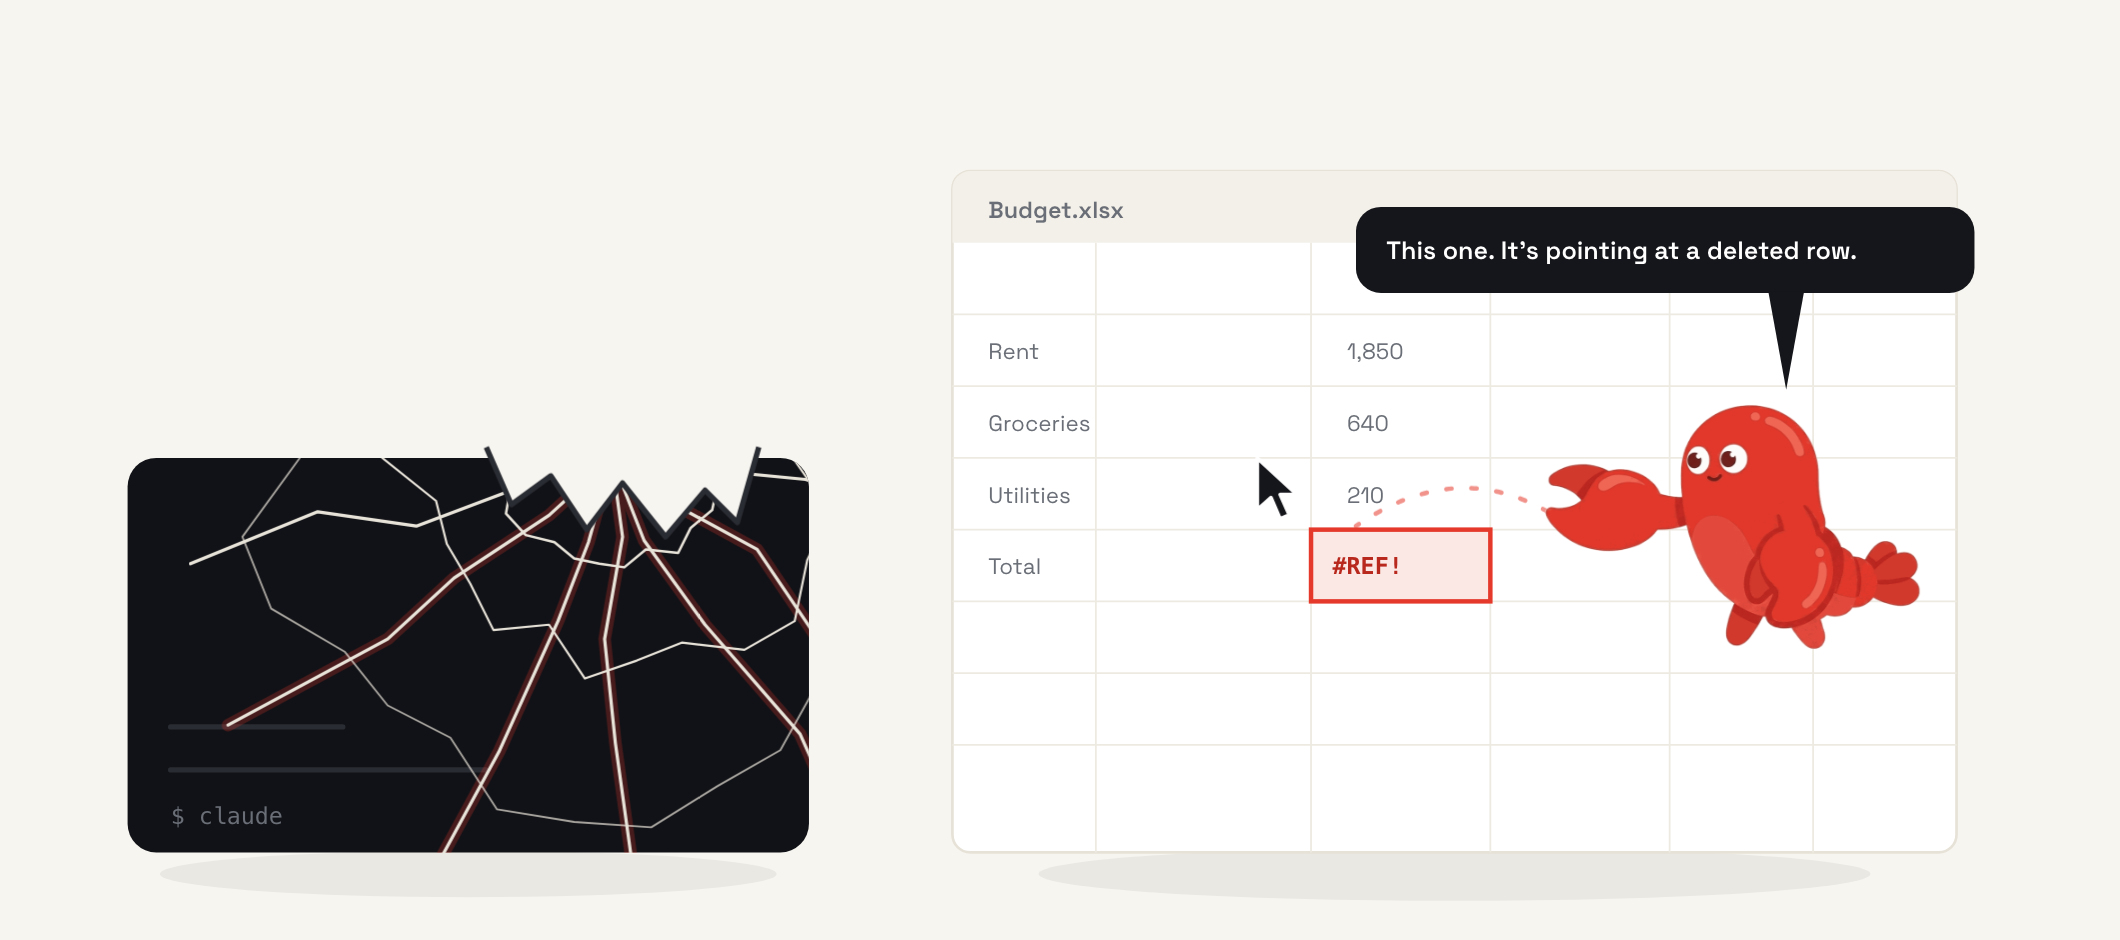
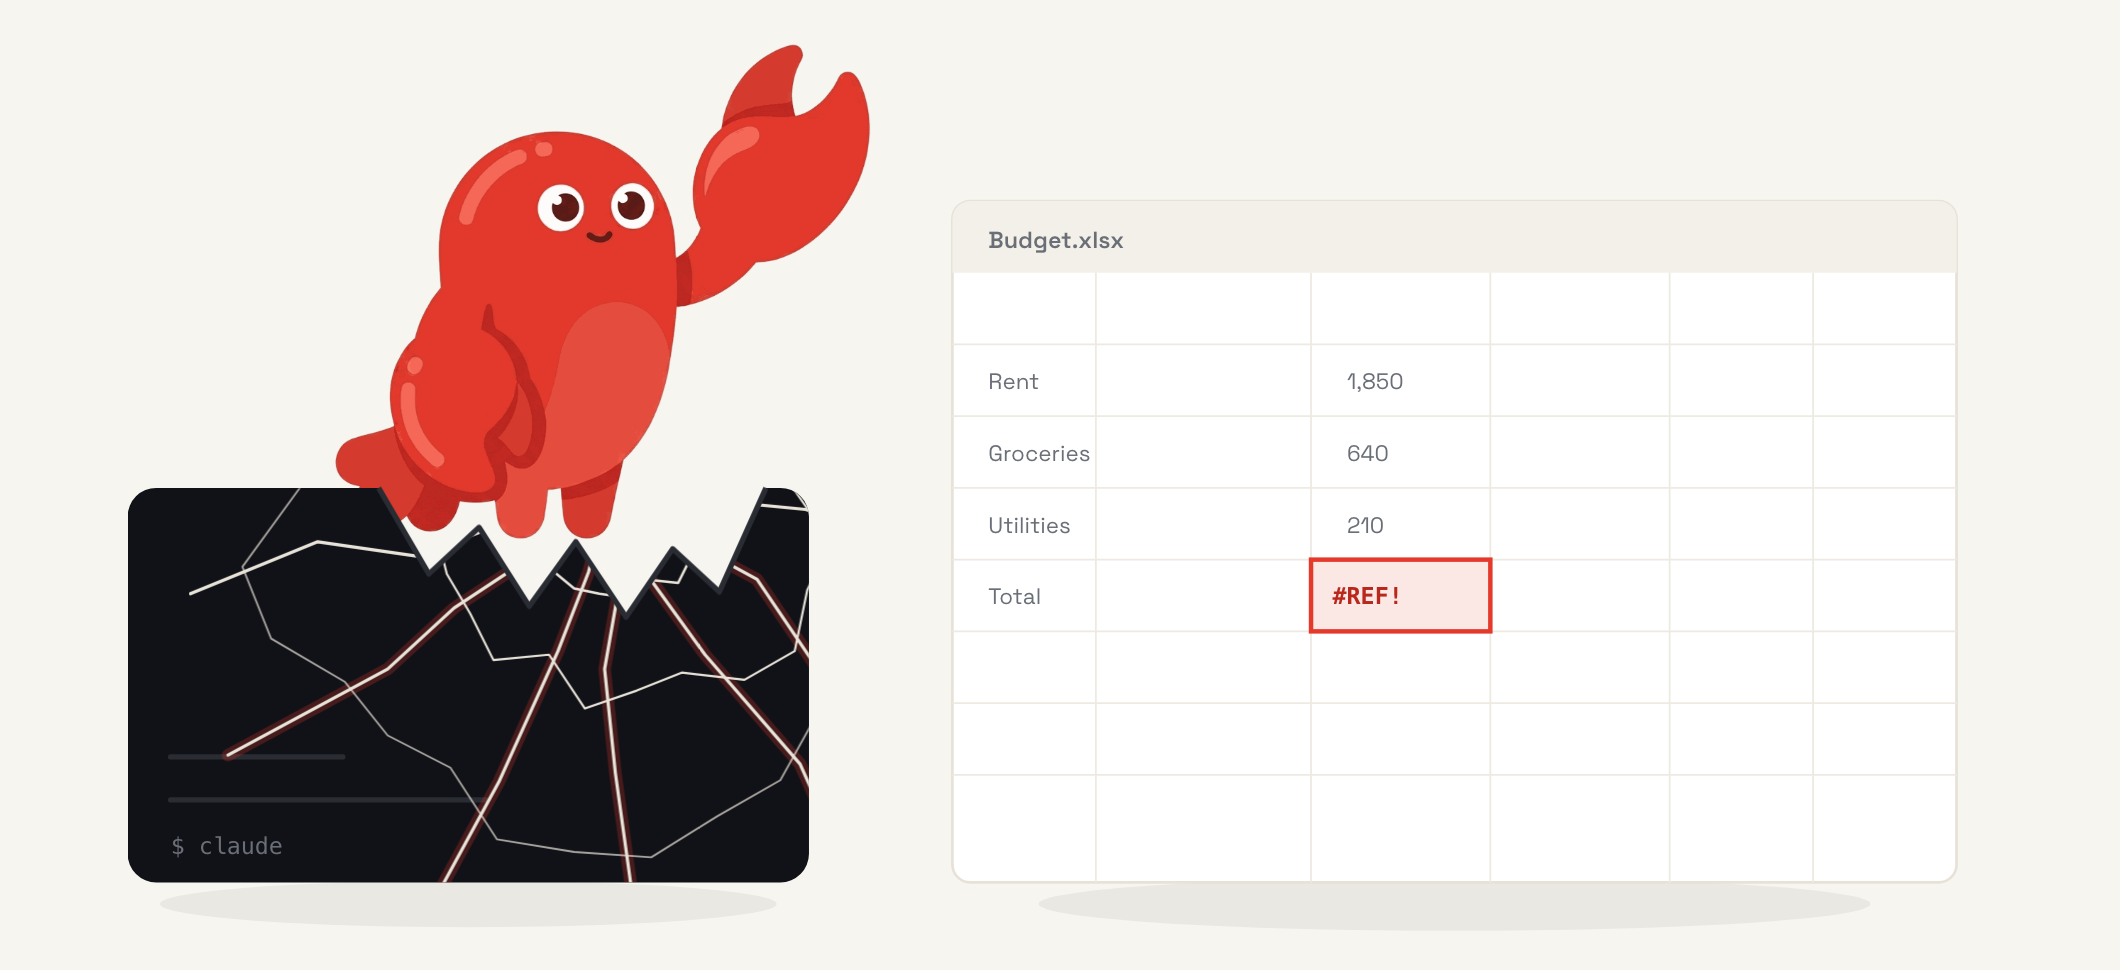
Hero: lobster climbs out through a real hole in the terminal; README shows the burst frame
The rising lobster is now the full-body mascot drawn behind the
terminal's front face, which has the jagged opening cut out of it, so
the broken edge genuinely occludes the body on the way out and you see
the desk through the hole once it's gone. Cracks are clipped to the
intact glass. The README hero is the mid-burst frame.

diff --git a/site/index.html b/site/index.html
@@ -61,15 +61,17 @@
   .cracks path:nth-child(n+8){ animation-delay: 1.5s; animation-duration: 0.7s; }
   .cracks path:nth-child(10){ animation-delay: 1.62s; }
   @keyframes drawCrack{ to{ stroke-dashoffset: 0; } }
-  .hole, .hole-rim{ opacity:0; animation: fadeIn 0.08s linear forwards; animation-delay: 1.95s; }
+  .hole-cover{ opacity:1; animation: fadeOut 0.08s linear forwards; animation-delay: 1.95s; }
+  .hole-rim{ opacity:0; animation: fadeIn 0.08s linear forwards; animation-delay: 1.95s; }
+  @keyframes fadeOut{ to{ opacity:0; } }
   .shard{ opacity:0; transform-origin:center; animation: shardFly 0.9s cubic-bezier(.2,.7,.3,1) forwards; animation-delay: 1.95s; }
   .shard.s1{ --dx:-60px; --dy:-130px; --r:-140deg; --lx:150px; --ly:194px; }
   .shard.s2{ --dx:50px; --dy:-160px; --r:200deg; --lx:120px; --ly:190px; }
   .shard.s3{ --dx:-20px; --dy:-100px; --r:-90deg; --lx:225px; --ly:194px; }
   .shard.s4{ --dx:100px; --dy:-110px; --r:120deg; --lx:100px; --ly:198px; }
   @keyframes shardFly{ 0%{ opacity:1; transform: translate(0,0) rotate(0); } 45%{ opacity:1; transform: translate(var(--dx),var(--dy)) rotate(var(--r)); } 100%{ opacity:0; transform: translate(var(--lx),var(--ly)) rotate(var(--r)); } }
-  .peek{ opacity:0; transform-origin: 350px 300px; animation: peekUp 0.8s cubic-bezier(.2,.8,.2,1) forwards, peekHop 0.45s cubic-bezier(.4,0,.8,.6) forwards; animation-delay: 1.9s, 3.1s; }
-  @keyframes peekUp{ from{ opacity:0; transform: translateY(70px) scale(0.94); } to{ opacity:1; transform:none; } }
+  .peek{ opacity:0; transform-origin: 325px 330px; animation: peekUp 0.8s cubic-bezier(.2,.9,.2,1.15) forwards, peekHop 0.45s cubic-bezier(.4,0,.8,.6) forwards; animation-delay: 1.95s, 3.1s; }
+  @keyframes peekUp{ from{ opacity:1; transform: translateY(210px); } to{ opacity:1; transform:none; } }
   @keyframes peekHop{ to{ opacity:0; transform: translate(120px,-140px) scale(0.9); } }
   .land{ opacity:0; transform-origin: 940px 380px; animation: landIn 0.7s cubic-bezier(.34,1.4,.64,1) forwards; animation-delay: 3.4s; }
   @keyframes landIn{ from{ opacity:0; transform: translate(-220px,-150px) scale(0.86); } 60%{ opacity:1; } to{ opacity:1; transform:none; } }
@@ -85,8 +87,8 @@
   .beats li{ display:flex; align-items:center; gap:10px; font-size:14px; color:var(--muted); }
   .beats li b{ display:inline-grid; place-items:center; width:22px; height:22px; border-radius:50%; background:var(--red-soft); color:var(--red-deep); font-size:12px; }
   @media (prefers-reduced-motion: reduce){
-    .eyes, .eyes .lid, .cracks path, .cracks-glow path, .hole, .hole-rim, .shard, .peek, .land, .cursor-arrow, .hero-trail, .hero-bubble, .term-cursor, .clawdy-bubble, .you-bubble .bar{ animation: none !important; }
-    .eyes{ opacity:0; } .cracks path, .cracks-glow path{ stroke-dashoffset:0; } .hole, .hole-rim{ opacity:1; } .shard{ opacity:0; } .peek{ opacity:0; } .land, .cursor-arrow, .hero-bubble{ opacity:1; } .hero-trail{ opacity:0.55; }
+    .eyes, .eyes .lid, .cracks path, .cracks-glow path, .hole-cover, .hole-rim, .shard, .peek, .land, .cursor-arrow, .hero-trail, .hero-bubble, .term-cursor, .clawdy-bubble, .you-bubble .bar{ animation: none !important; }
+    .eyes{ opacity:0; } .cracks path, .cracks-glow path{ stroke-dashoffset:0; } .hole-cover{ opacity:0; } .hole-rim{ opacity:1; } .shard{ opacity:0; } .peek{ opacity:0; } .land, .cursor-arrow, .hero-bubble{ opacity:1; } .hero-trail{ opacity:0.55; }
   }
 
   /* ---------- VALUE PROPS ---------- */
@@ -170,9 +172,13 @@
           <ellipse cx="250" cy="532" rx="172" ry="13" fill="#000" opacity="0.05"/>
           <ellipse cx="800" cy="532" rx="232" ry="15" fill="#000" opacity="0.05"/>
 
-          <!-- beat 1: the terminal, with the lobster's eyes inside -->
+          <!-- beat 1+2: the terminal. Back face → the lobster rises INSIDE it → the FRONT face with the
+               jagged hole cut out (evenodd), so the body is occluded by the broken edge as it climbs out. -->
+          <clipPath id="peek-clip"><rect x="0" y="-120" width="1160" height="420"/><rect x="60" y="300" width="380" height="220"/></clipPath>
+          <g clip-path="url(#peek-clip)"><g class="peek"><image href="mascot-point-right.png" x="175" y="52" width="300" height="277"/></g></g>
           <g transform="translate(60,300)">
-            <rect width="380" height="220" rx="16" fill="#111217"/>
+            <path class="term-front" fill-rule="evenodd" fill="#111217"
+                  d="M16,0 H364 A16,16 0 0 1 380,16 V204 A16,16 0 0 1 364,220 H16 A16,16 0 0 1 0,204 V16 A16,16 0 0 1 16,0 Z M140,0 L168,48 L196,22 L224,66 L250,30 L278,72 L304,34 L330,58 L356,0 Z"/>
             <g class="eyes">
               <circle cx="176" cy="96" r="14" fill="#FFFFFF"/><circle cx="216" cy="96" r="14" fill="#FFFFFF"/>
               <circle cx="180" cy="98" r="6" fill="#15161B"/><circle cx="220" cy="98" r="6" fill="#15161B"/>
@@ -182,7 +188,7 @@
             <text x="24" y="204" font-family="ui-monospace,Menlo,monospace" font-size="13" fill="#6A6E76">$ claude</text>
             <rect class="term-cursor" x="92" y="192" width="9" height="15" fill="#E5392C"/>
             <!-- shatter: a spiderweb of cracks (radial rays + concentric rings) around the burst point on the top edge, clipped to the window -->
-            <clipPath id="term-clip"><rect width="380" height="220" rx="16"/></clipPath>
+            <clipPath id="term-clip"><path clip-rule="evenodd" d="M16,0 H364 A16,16 0 0 1 380,16 V204 A16,16 0 0 1 364,220 H16 A16,16 0 0 1 0,204 V16 A16,16 0 0 1 16,0 Z M140,0 L168,48 L196,22 L224,66 L250,30 L278,72 L304,34 L330,58 L356,0 Z"/></clipPath>
             <g clip-path="url(#term-clip)">
               <g class="cracks-glow" fill="none" stroke="#E5392C" stroke-width="7" stroke-linecap="round" stroke-linejoin="round" opacity="0.25">
                 <path d="M270,0 L305,26 L351,51 L393,113 L469,135"/><path d="M270,0 L288,46 L322,93 L375,154 L413,239"/><path d="M270,0 L276,44 L266,101 L272,159 L287,267"/><path d="M270,0 L257,47 L240,91 L207,164 L171,230"/><path d="M270,0 L235,32 L182,67 L145,101 L56,149"/>
@@ -194,18 +200,16 @@
                 <path d="M443,0 L445,37 L439,75 L437,122 L384,127 L364,163 L329,183 L292,206 L249,203 L206,196 L180,156 L145,138 L121,108 L80,84 L64,44 L96,0" stroke-width="1" opacity="0.7"/>
               </g>
             </g>
-            <path class="hole" d="M200,-6 L214,26 L236,10 L256,40 L276,14 L300,44 L322,18 L340,36 L352,-6 Z" fill="#F7F5F0"/>
-            <path class="hole-rim" d="M200,-6 L214,26 L236,10 L256,40 L276,14 L300,44 L322,18 L340,36 L352,-6" fill="none" stroke="#2A2C33" stroke-width="3" stroke-linejoin="round"/>
+            <path class="hole-cover" d="M140,0 L168,48 L196,22 L224,66 L250,30 L278,72 L304,34 L330,58 L356,0 Z" fill="#111217"/>
+            <path class="hole-rim" d="M140,0 L168,48 L196,22 L224,66 L250,30 L278,72 L304,34 L330,58 L356,0" fill="none" stroke="#2A2C33" stroke-width="3" stroke-linejoin="round"/>
           </g>
-          <!-- shards fly out of the hole, then lie on the desk as debris -->
+          <!-- shards fly out of the hole -->
           <g class="shards" fill="#111217">
             <polygon class="shard s1" points="296,300 316,296 336,300 320,326"/>
             <polygon class="shard s2" points="360,298 382,300 372,330 356,318"/>
             <polygon class="shard s3" points="262,302 284,296 290,320 270,326"/>
             <polygon class="shard s4" points="396,300 414,298 420,322 402,318"/>
           </g>
-          <!-- beat 2: cracks out (the image's cut edge sits on the terminal's top edge, y=300) -->
-          <g class="peek"><image href="mascot-peek.png" x="150" y="40" width="409" height="390"/></g>
 
           <!-- the everyday app: a spreadsheet -->
           <g transform="translate(520,140)">

diff --git a/README.md b/README.md
@@ -13,7 +13,7 @@
 </p>
 
 <p align="center">
-  <img src="assets/clawdy-hero.png" width="860" alt="Clawdy, a small red lobster, has broken out of a shattered terminal window and stands beside the mouse cursor on a spreadsheet, pointing at a broken cell and saying: This one. It's pointing at a deleted row." />
+  <img src="assets/clawdy-hero.png" width="860" alt="Clawdy, a small red lobster, bursting out through a jagged hole in a shattered terminal window, next to a spreadsheet with a broken cell." />
 </p>
 
 Clawdy has no AI of its own. It runs on the **Claude Code** or **Codex** you already have installed, so there is nothing new to sign up for and no separate bill. Your voice never leaves your Mac.
